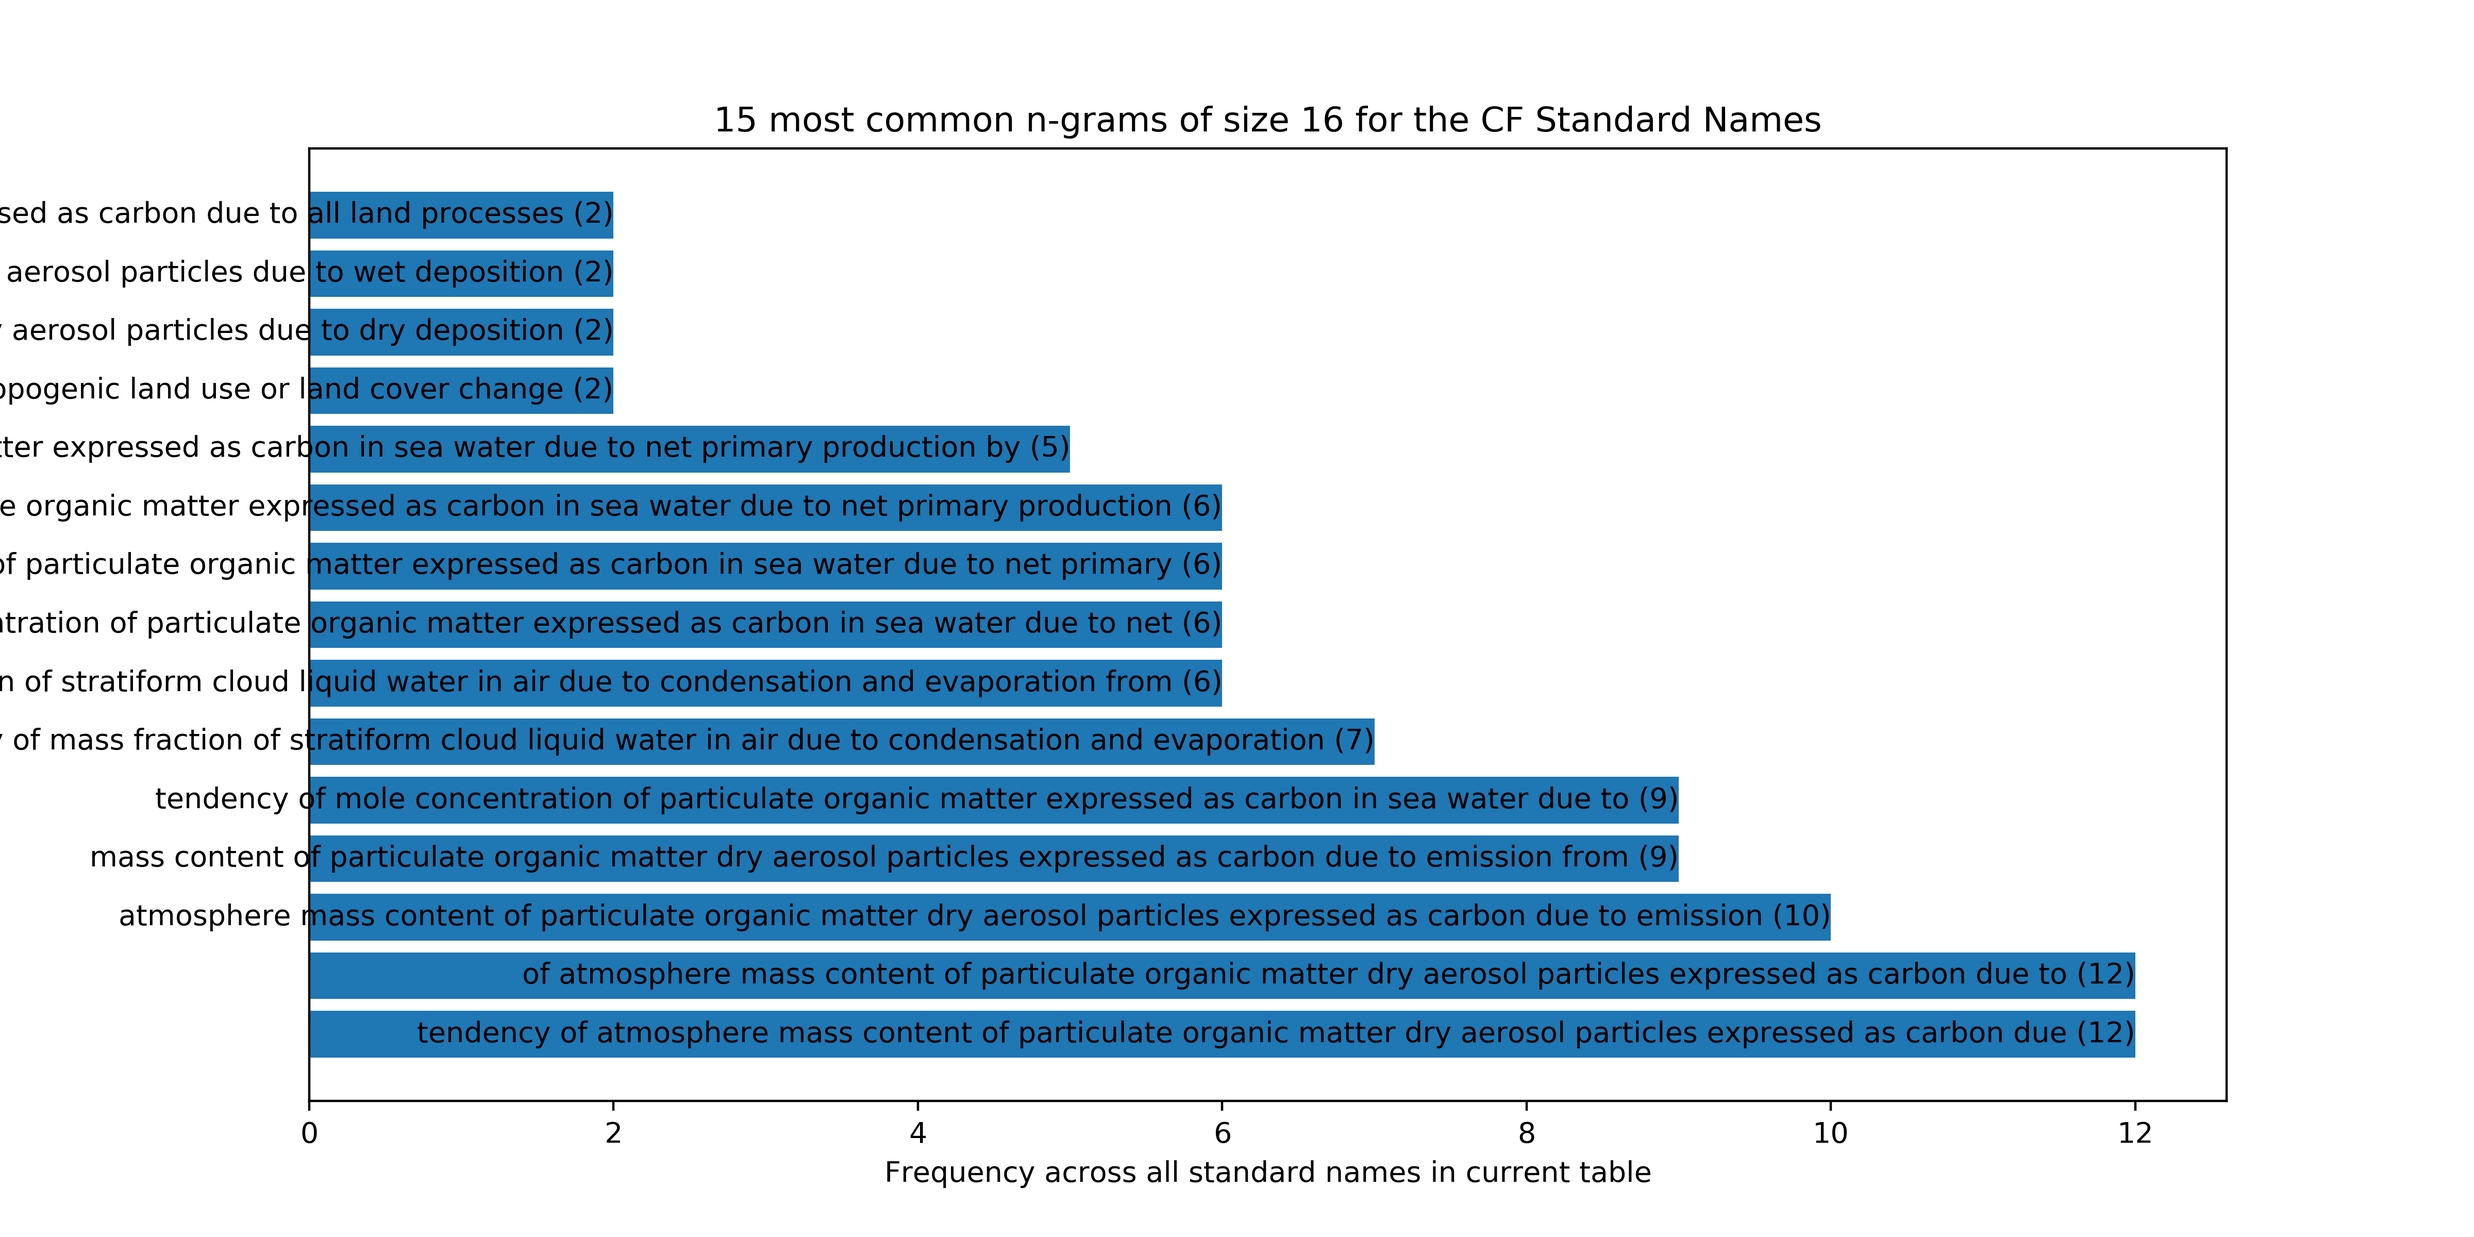
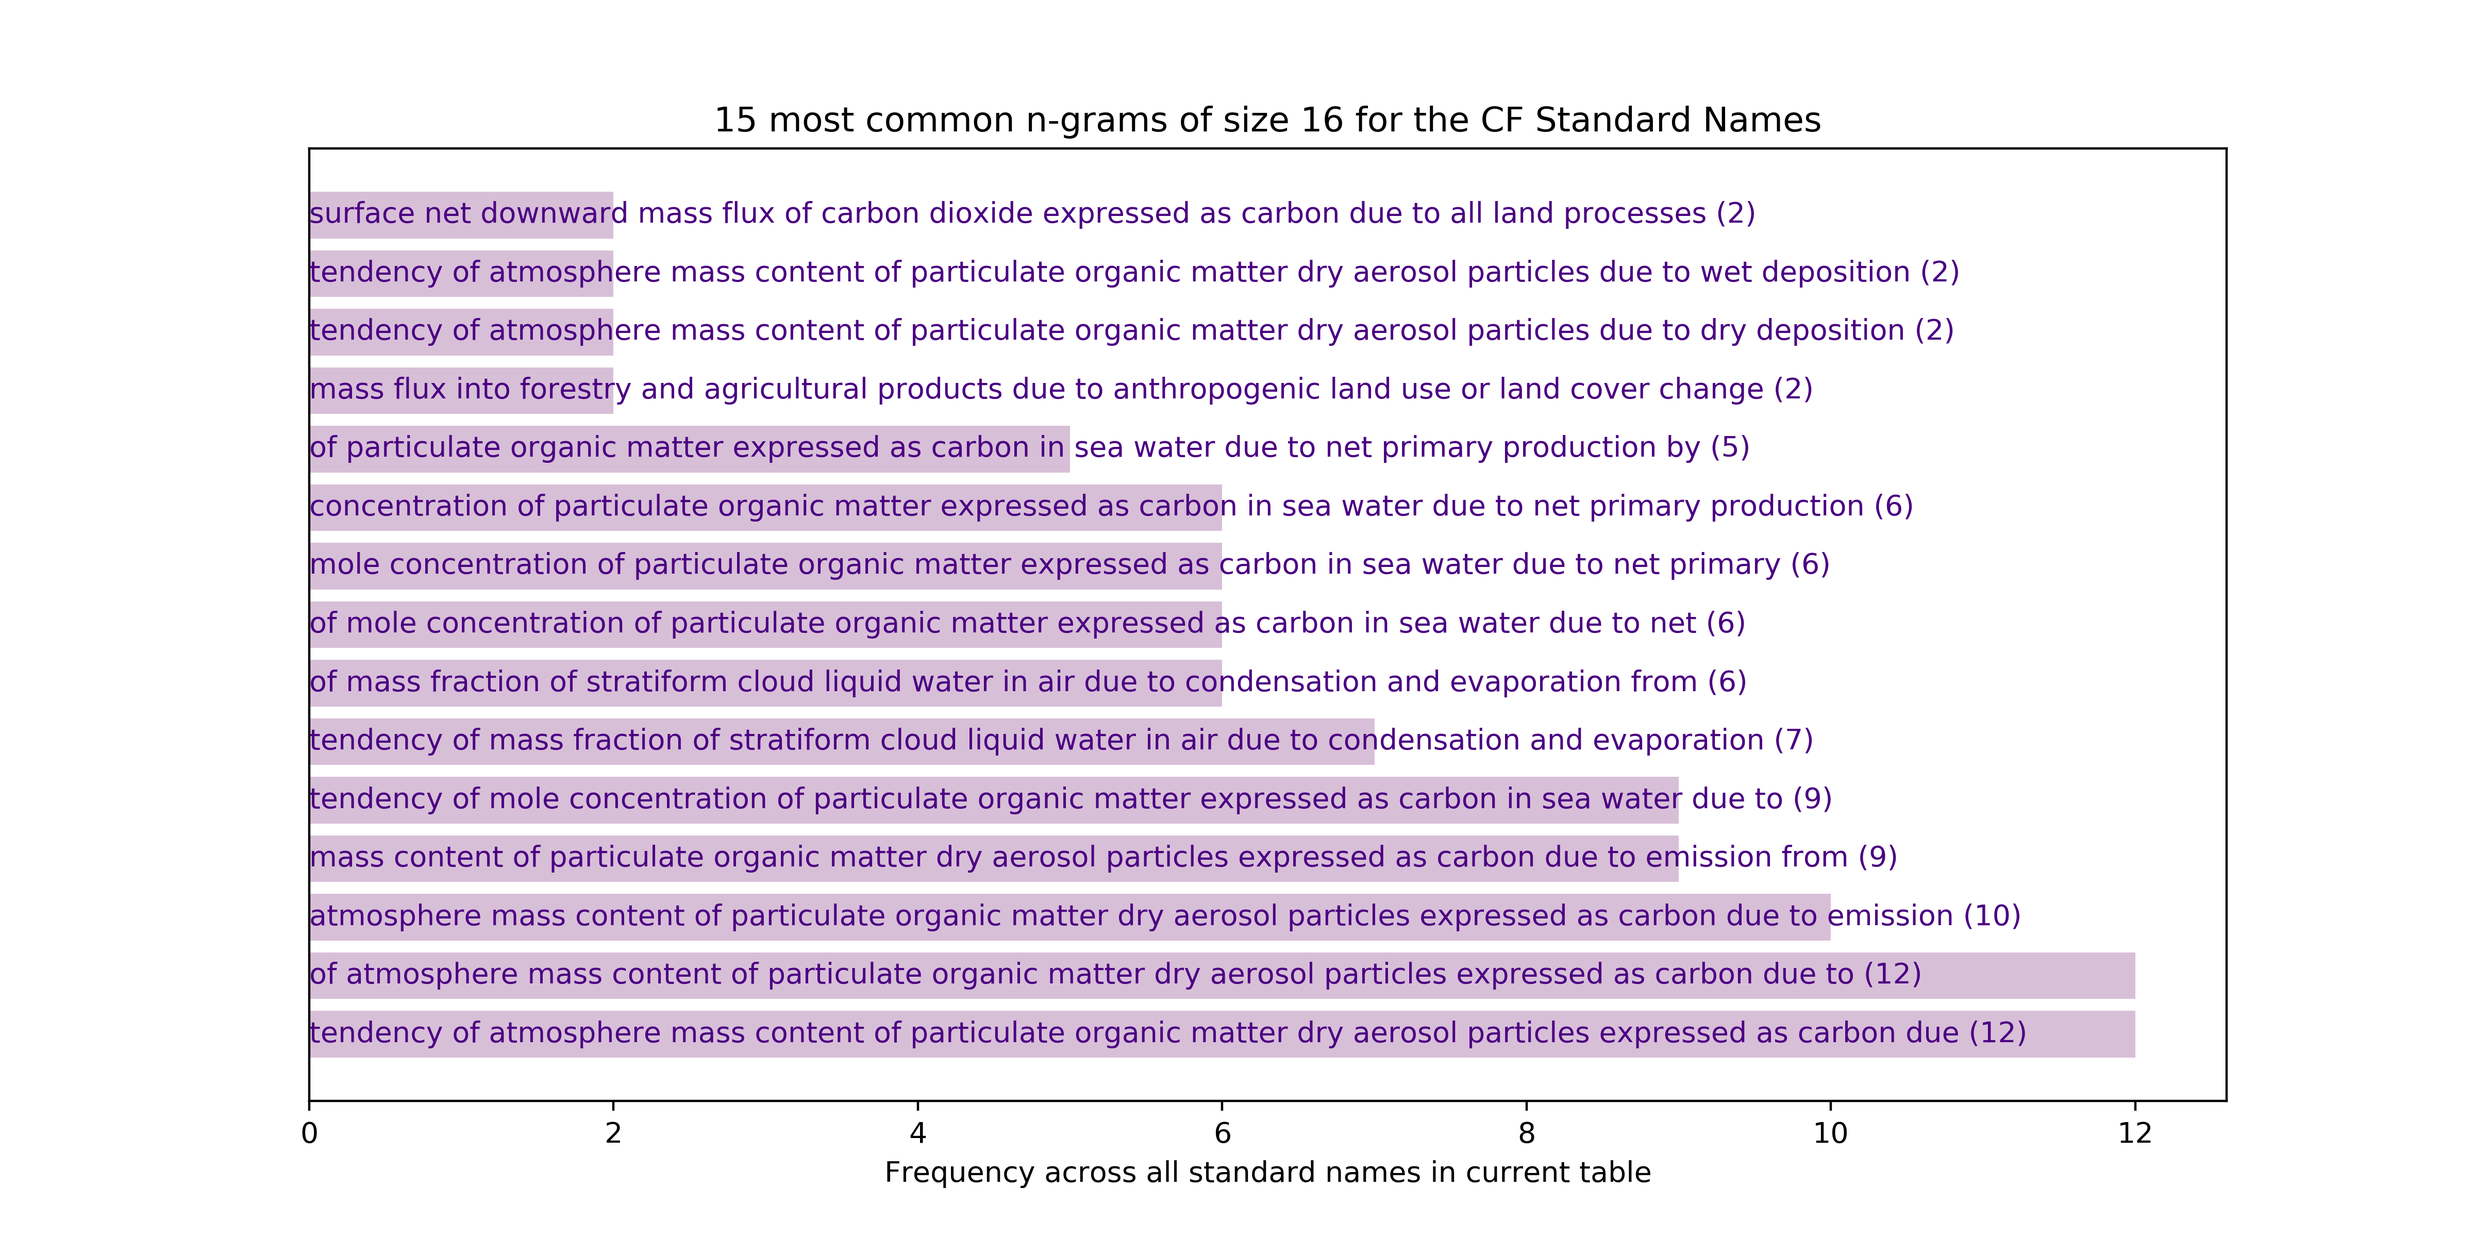
Format plots esp. to stop n-gram labels being cut off + code tidy
Includes tweak to the recursive removal algorithm.

Changed region(s): [[0.0, 0.1562, 0.875, 0.875], [0.6875, 0.3125, 0.7188, 0.3438]]

diff --git a/analysis/basic-ngram-counts.py b/analysis/basic-ngram-counts.py
@@ -8,8 +8,25 @@ import matplotlib.pyplot as plt
 from matplotlib.ticker import ScalarFormatter
 
 
+# Return and plot the most common n-grams, for a given n, up to this number:
 cutoff_total = 15
-ngram_n_max_interesting = 20  # at this length, mostly get count of 1
+# Highest integer n-gram length where the most common n-gram occurs >1 time
+# (simplest to find this manually by inspection of generated graphs):
+ngram_n_max_interesting = 20
+
+
+def get_standard_names_as_text_blob(name_under_data_dir):
+    '''TODO
+     '''
+    # Grab all the newline-delimited names (w/ underscores replaced by spaces)
+    with open("../data/" + name_under_data_dir, "r") as all_raw_names:
+        names = all_raw_names.readlines()
+
+    # Replace newline with dot (standard NLP sentence delimiter), to simplify:
+    names = ". ".join(names)
+    names = names.replace("\n", "")
+    # Create the textblob core object, a TextBlob, of all the names:
+    return TextBlob(names)
 
 
 def get_ngram_counts(names, ngram_size, get_x_most_common=None):
@@ -26,185 +43,265 @@ def get_ngram_counts(names, ngram_size, get_x_most_common=None):
     ngram_counts = Counter(
         [tuple(wordlist) for wordlist in ngrams])  # need tuple for hashability
 
+    known_long_name = (
+        'tendency of mole concentration of particulate organic matter '
+        'expressed as carbon in sea water due to net primary production by'
+    )
+    validate_known_long_ngram = tuple(known_long_name.split()[:ngram_size])
+
+    # Quick and basic validity check at this point, before plots made etc.:
+    assert ngram_counts.get(validate_known_long_ngram, False), (
+        "Something is not right as a known n-gram is not being counted.")
+    # Also check that n-grams are not being taken across name boundaries:
+    assert not ngram_counts.get(('azimuth', 'angstrom'), False), (
+        "n-grams have been taken across name boundaries which is not right.")
+
     if get_x_most_common:
         ngram_counts = dict(ngram_counts.most_common(get_x_most_common))
-    else:
+    else:  # take all, including n-grams only occurring once across the names
         dict(ngram_counts)
 
-    # Format to get phrase instead of tuple of words as keys:
+    # Format to get phrase e.g. "in air" instead of tuple of words as keys:
     ngram_counts = {
         " ".join(phrase): count for phrase, count in ngram_counts.items()}
     return ngram_counts
 
 
-def get_and_remove_any_n_ngram_counts(names):
-    '''TODO
+def get_and_remove_any_n_ngram_counts_iteration(names):
+    '''Return most common n-grams of any n, removing most common when found.
     '''
     most_common_any_n_ngrams = []
     max_count = 0
-    # This time remove ngrams as they are found!
-    names_sentences = names.sentences
-    # reversed(...) is important here.
+    # Use reversed() so that ngrams with same max. count of higher-n appear
+    # before those of lower-n, as the higher-n counts are more interesting:
     for size in reversed(range(2, ngram_n_max_interesting)):
-        # Get n-grams at this size
+        # Get n-grams at this size:
         size_n_ngrams = []
-        for name in names_sentences:
+        for name in names.sentences:
             ngrams_of_size = name.ngrams(size)
             size_n_ngrams.extend(ngrams_of_size)
+
+        # Find max count at this size and if more or equal to max for any
+        # size n, add name(s) to the most_common_any_n_ngrams:
         most_common_size_n = Counter(
             [tuple(wordlist) for wordlist in size_n_ngrams]).most_common(1)
-
-        # TODO: ensure nothing draws, as will need to add both!
         ngram_max_count = most_common_size_n[0][1]
-
-        if ngram_max_count >= max_count:  # take longer one
+        if ngram_max_count >= max_count:
             most_common_any_n_ngrams.append(most_common_size_n)
             max_count = ngram_max_count
 
-    # Determine most common over any size:
-    final_most_common_any_n_ngrams = sorted(
+    # Determine most common name(s) over any size:
+    most_common_any_n_ngrams = sorted(
         most_common_any_n_ngrams, key=lambda item: item[0][1], reverse=True)
-    # TODO: manage this mess; need to catch counts of equal value post-sort
-    if (final_most_common_any_n_ngrams[0][0][1] ==
-            final_most_common_any_n_ngrams[1][0][1]):
-        print("\nNote, duplicates:", final_most_common_any_n_ngrams[:2])
-        if (final_most_common_any_n_ngrams[0][0][0][:-1] ==
-                final_most_common_any_n_ngrams[1][0][0]):
-            pass
-        if (final_most_common_any_n_ngrams[1][0][1] ==
-                final_most_common_any_n_ngrams[2][0][1]):
-            print("\nFURTHER DUPLICATES, CHECK HOW FAR EQUAL MAX. GOES...",
-                  final_most_common_any_n_ngrams)
 
-    return final_most_common_any_n_ngrams[0], names  # any_n_ngram_counts
+    # Grab those with the highest count. Note there may be multiple names
+    # with the highest so we need to cater for potentially >1 name.
+    # TODO: data structure conversion is pretty inefficient here, try to find
+    # a better way to retrieve the ngrams with highest count:
+    final_most_common_any_n_ngrams = {
+        count_object[0][0]: count_object[0][1] for count_object in
+        most_common_any_n_ngrams
+    }
+
+    highest_counts = max(final_most_common_any_n_ngrams.values())
+    overall_most_common = [(ngram, value) for ngram, value in
+                           final_most_common_any_n_ngrams.items() if
+                           value == highest_counts]
+
+    if len(overall_most_common) > 1:
+        print(
+            "WARNING: there are multiple ngrams with the max. count for this "
+            "iteration, namely: '{}'. Check they emerge in the graph.".format(
+                "', '". join(
+                    list([" ".join(info[0]) for info in overall_most_common])
+                )
+            )
+        )
+
+    return overall_most_common, names
 
 
-def recursive_get_and_remove_any_n_ngram_counts(names, get_x_most_common):
+def get_and_remove_any_n_ngram_counts(names, get_x_most_common):
     '''TODO
     '''
     # Get most common n-gram of any size:
     overall_most_common_ngrams = []
     use_names = names
     while len(overall_most_common_ngrams) < get_x_most_common:
-        packed_most_freq_ngram, all_names = get_and_remove_any_n_ngram_counts(
-            use_names)
-        most_common_n_gram = packed_most_freq_ngram
-        overall_most_common_ngrams.append(most_common_n_gram)
+        packed_most_freq_ngrams, all_names = (
+            get_and_remove_any_n_ngram_counts_iteration(use_names))
+        overall_most_common_ngrams.extend(packed_most_freq_ngrams)
 
-        # Remove that most common n-gram from all names ready to go again:
-        most_common_ngram_raw = " ".join(most_common_n_gram[0][0])
-        new_names = []
+        # Remove this most common n-gram from all names ready to go again:
+        reduced_names = []
         for name in all_names.sentences:
-            if most_common_ngram_raw in name:
-                name = name.replace(most_common_ngram_raw, "")
-                name = name.replace("  ", " ")
-            new_names.append(name)
-        new_names = "\n".join([str(name) for name in new_names])
-        use_names = TextBlob(new_names)
+            for most_freq_ngram_info in packed_most_freq_ngrams:
+                str_ngram = " ".join(most_freq_ngram_info[0])
+                if str_ngram in name:
+                    name = name.replace(str_ngram, "")
+                    name = name.replace("  ", " ")
+            reduced_names.append(name)
+        reduced_names = "\n".join([str(name) for name in reduced_names])
+
+        # Now use the reduced set of names as input, rather than the originals:
+        use_names = TextBlob(reduced_names)
 
     # Format to get phrase instead of tuple of words as keys:
-    ngram_counts = {
-        entry[0][0]: entry[0][1] for entry in overall_most_common_ngrams}
-    ngram_counts = {
-        " ".join(phrase): count for phrase, count in ngram_counts.items()}
-    print(ngram_counts)
+    ngram_counts = {" ".join(ngram_info[0]): ngram_info[1] for ngram_info in
+                    overall_most_common_ngrams}
+
     return ngram_counts
 
 
-def plot_ngram_counts(ngram_counts, cutoff_number=None, ngram_n=None):
+def set_up_plot_of_ngram_counts(
+        ngram_counts, use_colour='thistle'):
     '''TODO
     '''
     plt.rcdefaults()
     fig, ax = plt.subplots()
+
     names = list(ngram_counts.keys())
     counts = list(ngram_counts.values())
-    ax.barh(names, counts)
 
+    ax.barh(names, counts, color=use_colour)
+
+    return fig, ax, names, counts
+
+
+def save_and_show_plot_of_ngram_counts(fig, ax, size, title):
+    '''TODO
+    '''
+    fig.set_size_inches(*size)
+    plt.savefig(title, dpi=400)
+    plt.show()
+
+
+def plot_ngram_counts(
+        ngram_counts, cutoff_number, ngram_n, threshold_ratio=0.2):
+    '''TODO
+    '''
+    # At n~12, n-grams become so long that they get cut-off by either side of
+    # of the canvas, so must effectively centre them by placing inside left:
+    put_all_labels_inside_left = False
+    if ngram_n > 11:  # point at which (in 10.07.20 data) labels get too long
+        put_all_labels_inside_left = True
+
+    fig, ax, names, counts = set_up_plot_of_ngram_counts(ngram_counts)
+
+    plt.axis('tight')
+    plt.margins(0, 0.05)
+
+    # `cutoff` is the point at which we switch the name labels to point right
+    # and into the graph instead pointing left from the right end of the bar
+    # (which looks nicer, but when a bar gets too small relative to the plot
+    # width, essentially the longest bar, the name gets cut off to the left.)
+    cutoff = threshold_ratio * max(counts)
     # The n-gram names can be rather long, and often get cut off from the left
-    # side of the bar plot, so instead plot them inside the bars themselves:
-    # much clearer to read and compare:
+    # side of the bar plot, so instead (assuming they are not n~12 where so
+    # long they are nearly plot width) plot them inside the bars themselves:
     for i, (name, count) in enumerate(ngram_counts.items()):
+
+        # Firstly amend formatting to accommodate very long labels after n~12:
+        ha = 'right'
+        use_x = count
+        if count < cutoff:
+            ha = 'left'
+        if put_all_labels_inside_left:
+            use_x = 0
+            ha = 'left'
+
         label = "{} ({})".format(name, count)
         plt.text(
-            s=label, x=count, y=i,
-            color="black", verticalalignment="center",
-            horizontalalignment="right", size=10,
+            s=label, x=use_x, y=i,
+            color="indigo", verticalalignment="center",
+            horizontalalignment=ha, size=10, wrap=True
         )
     plt.yticks([])
 
-    # Labelling:
     ax.set_title(
         '{} most common n-grams of size {} for the CF Standard Names'.format(
             cutoff_number, ngram_n)
     )
     ax.set_xlabel('Frequency across all standard names in current table')
 
-    fig.set_size_inches(12, 6)
-    plt.savefig(
-        "../results/ngrams/most-common-{}-grams.png".format(ngram_n), dpi=400)
-    plt.show()
+    save_and_show_plot_of_ngram_counts(
+        fig, ax, (12, 6),
+        "../results/ngrams/most-common-{}-grams.png".format(ngram_n)
+    )
 
 
 def plot_recursive_ngram_counts(ngram_counts):
     '''TODO
     '''
-    plt.rcdefaults()
-    fig, ax = plt.subplots()
-    names = list(ngram_counts.keys())
-    counts = list(ngram_counts.values())
-    ax.barh(names, counts, color='lightcoral')
+    fig, ax, names, counts = set_up_plot_of_ngram_counts(
+        ngram_counts, use_colour=['lightgreen', 'lightsteelblue'])
 
     # Axes formatting:
     ax.set_xscale('log')
     ax.xaxis.set_major_formatter(ScalarFormatter())
+    ax.xaxis.set_minor_formatter(ScalarFormatter())
+    ax.tick_params(which='major', length=12)
     ax.set_yticklabels(names)
     ax.tick_params(axis="y", direction="in", pad=-10)
     plt.setp(ax.get_yticklabels(), ha="left")
-    for i, (name, count) in enumerate(ngram_counts.items()):
+
+    for index, (name, count) in enumerate(ngram_counts.items()):
+        # Match colours as roughly darker versions of alternating bar colours:
+        colour = 'forestgreen'
+        ha = 'left'
+        if index % 2:
+            colour = 'midnightblue'
+            ha = 'right'
+
+        # Prevent leftmost and rightmost name labels from being cut off canvas
+        if count < 45:
+            ha = 'left'
+        elif count > 1000:
+            ha = 'right'
+
         label = "{} ({})".format(name, count)
         plt.text(
-            s=label, x=count, y=i,
-            color="black", verticalalignment="center",
-            ha="left", size=10,
+            s=label, x=count, y=index,
+            color=colour, verticalalignment="center",
+            ha=ha, size=11,
         )
     plt.yticks([])
 
     # Labelling:
     ax.set_title(
-        '{} most common n-grams of *any* size for the '
+        '{} most common n-grams of any size for the '
         'CF Standard Names'.format(len(names))
     )
-    ax.set_xlabel('Frequency across all standard names in current table')
+    ax.text(
+        0.7, 0.95,
+        'Note that the colours of the bars\n and their labels do not have\n '
+        'any meaning; they are plotted\n in alternating colours to make it\n '
+        'easier to distinguish neighbouring\n bars and their labels.',
+        transform=ax.transAxes, verticalalignment='top'
+    )
+    ax.set_xlabel(
+        'Frequency across all standard names in current table (log scale)')
 
-    fig.set_size_inches(12, 12)
-    plt.savefig(
-        "../results/ngrams/recursive-n-grams-of-any-n.png", dpi=400)
-    plt.show()
+    save_and_show_plot_of_ngram_counts(
+        fig, ax, (12, 12),
+        "../results/ngrams/recursive-n-grams-of-any-n.png"
+    )
 
 
-# Grab all of the newline-delimited names (with underscores replaced by spaces)
-with open("../data/all-raw-names-10.07.20-gen.txt", "r") as all_raw_names:
-    names = all_raw_names.readlines()
+names_blob = get_standard_names_as_text_blob("all-raw-names-10.07.20-gen.txt")
 
 
-# Replace newline with dot for standard NLP sentence delimiter, to simplify:
-names = ". ".join(names)
-names = names.replace("\n", "")
-# Create the textblob core object, a TextBlob, of all the names:
-names_object = TextBlob(names)
-
-# Find, plot and save the most common ngrams from 2 (bigram) to cutoff number:
+# 1. Find, return, plot and save the most common ngrams from a bigram (n=2)
+# to n=ngram_n_max_interesting number:
 for ngram_size in range(2, ngram_n_max_interesting + 1):
     # Get counts and conduct an assertion check
-    counts = get_ngram_counts(names_object, ngram_size, cutoff_total)
-    try:
-        counts['azimuth angstrom']  # implies ngrams taken across names (bad)
-        raise AssertionError("ngrams taken across name boundaries")
-    except KeyError:
-        pass  # no such key (good/correct)
-
+    counts = get_ngram_counts(names_blob, ngram_size, cutoff_total)
+    pprint(counts)
     plot_ngram_counts(counts, cutoff_total, ngram_size)
 
-# Find, plot and save the 50 most common ngrams of any size, with removal:
-plot_recursive_ngram_counts(
-    recursive_get_and_remove_any_n_ngram_counts(names_object, 50))
+
+# 2. Find, return, plot and save the most common ngrams of any size (any n),
+# removing the most common one(s) before finding for the next most common:
+any_n_most_common = get_and_remove_any_n_ngram_counts(names_blob, 60)
+pprint(any_n_most_common)
+plot_recursive_ngram_counts(any_n_most_common)
